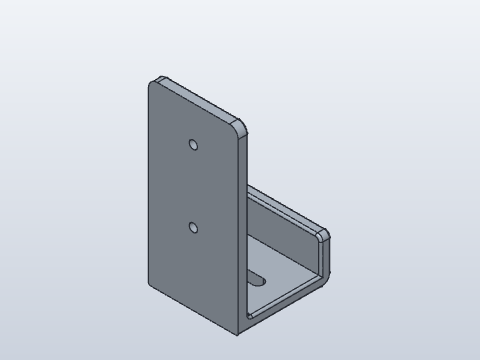
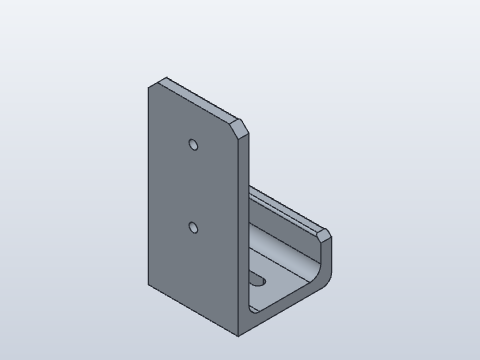
fix: wall holder prints on its side, templates take screw sizes from the tables (BC-07)
- Wall holder: print face on its side, both inner corners rounded by the wall, the
  corners on the bed chamfered; wood screw hole and countersink from WALL (4.7 / 8.8).
  Preview rendered again.
- Adjustable stop: wood screw hole and counterbore from WALL; sign and housing M3 holes
  from CLEARANCE_NORMAL.
- Sign: the words' room and the least letter height in the parameter comments, English
  and German.

Changed region(s): [[0.4688, 0.3361, 0.7188, 0.9472], [0.3125, 0.2139, 0.3438, 0.2444]]

diff --git a/apps/desktop/src/shared/templates.ts b/apps/desktop/src/shared/templates.ts
@@ -15,6 +15,8 @@
  */
 
 import { hingeSteps, lipSteps, pinDiameter, printTogether, slideSteps } from './mechanisms';
+import { CLEARANCE_NORMAL } from './screwSizes';
+import { WALL } from './wallMount';
 
 export const TEMPLATE_IDS = ['hingedBox', 'slideStop', 'housing', 'sign', 'wallHolder'] as const;
 export type TemplateId = (typeof TEMPLATE_IDS)[number];
@@ -135,8 +137,9 @@ function slideStop(): Step[] {
     parameter('base_width', '40 mm', 'Width of the base; the stop is 24 mm wide'),
     parameter('stop_length', '30 mm', 'Length of the stop along the rail'),
     parameter('stop_height', '20 mm', 'Height of the stop above the base'),
-    parameter('screw_hole', '4.5 mm', 'Holes in the base for 4 mm wood screws'),
-    parameter('screw_head', '9 mm', 'Diameter of the counterbore for their heads, so the stop passes over them'),
+    // The 4 mm wood screw of the wall mountings (audit T43: 4.5 and 9 here, 4.7 and 8.8 there): its hole, and its head with 0.5 mm per side.
+    parameter('screw_hole', `${String(WALL[4].clearance)} mm`, 'Holes in the base for 4 mm wood screws'),
+    parameter('screw_head', `${String(WALL[4].entry)} mm`, 'Diameter of the counterbore for their heads, so the stop passes over them'),
     parameter('clamp_hole', '5.6 mm', 'Hole in the stop for an M4 heat-set insert; its screw clamps the stop on the rail'),
     { command: 'solid.box', params: { length: 'length', width: 'base_width', height: `${String(thick)} mm`, corner: [0, '-base_width / 2', 0], operation: 'new', body_name: 'Base', name: 'Base' } },
     // Edges by a point on them at the starting sizes; SolidCraft follows them when the sizes change.
@@ -172,12 +175,17 @@ function slideStop(): Step[] {
 function sign(): Step[] {
   const [length, width] = [80, 25];
   return [
-    { command: 'parameters.add', params: { name: 'label', expression: 'PartBuddy', unit: 'text', comment: 'The words on the sign' } },
+    // Measured on SolidCraft 0.40.1 (2026-11-13), Arial bold at 9 mm capitals: "PartBuddy" 62.5 mm, 30 capitals 260.6 mm,
+    // "Werkzeug Schublade 3" 136.4 mm, ten W 118.7 mm. Between the screw holes and 1 mm clear of them the words have
+    // length - 17.4 mm.
+    // shortcut: SolidCraft's expressions cannot measure a text, so nothing refuses words too long; the print check finds
+    // letters past the plate or over a hole as an overhang. Fit the height to the words when SolidCraft can measure them.
+    { command: 'parameters.add', params: { name: 'label', expression: 'PartBuddy', unit: 'text', comment: 'The words on the sign; they must fit between the screw holes, the length less 18 mm: a letter takes about 0.8 times the text height, a capital about 1, a W 1.3' } },
     parameter('length', '80 mm', 'Length of the sign'),
     parameter('width', '25 mm', 'Width of the sign'),
     parameter('thickness', '3 mm', 'Thickness of the plate'),
-    parameter('text_height', '9 mm', 'Height of the capital letters'),
-    parameter('screw_hole', '3.4 mm', 'Holes for M3 screws (ISO 273, normal)'),
+    parameter('text_height', '9 mm', 'Height of the capital letters; from 4 mm their strokes are two lines of a 0.4 mm nozzle, and with descenders the words are 1.3 times as high [4..18]'),
+    parameter('screw_hole', `${String(CLEARANCE_NORMAL.M3)} mm`, 'Holes for M3 screws (ISO 273, normal)'),
     { command: 'solid.box', params: { length: 'length', width: 'width', height: 'thickness', operation: 'new', body_name: 'Sign', name: 'Plate' } },
     // Edges by a point on them at the starting sizes; SolidCraft follows them when the sizes change.
     { command: 'solid.fillet', params: { edges: [[0, 0, 1.5], [length, 0, 1.5], [0, width, 1.5], [length, width, 1.5]], radius: '4 mm', name: 'Outer corners' } },
@@ -222,7 +230,7 @@ function housing(): Step[] {
     parameter('boss', '8 mm', 'Diameter of the screw bosses in the corners'),
     parameter('insert_hole', '4 mm', 'Hole for an M3 heat-set insert (ruthex: 4 mm)'),
     parameter('insert_depth', '6.7 mm', 'Depth of that hole: insert length plus 1 mm'),
-    parameter('screw_hole', '3.4 mm', 'Hole in the lid for the M3 screws (ISO 273, normal)'),
+    parameter('screw_hole', `${String(CLEARANCE_NORMAL.M3)} mm`, 'Hole in the lid for the M3 screws (ISO 273, normal)'),
     parameter('corner', '6 mm', 'Radius of the outer corners of housing and lid'),
     parameter('ear', '12 mm', 'How far the screw ears reach out on the short sides'),
     { command: 'solid.box', params: { length: 'length', width: 'width', height: 'height', operation: 'new', body_name: 'Housing', name: 'Housing' } },
@@ -279,8 +287,8 @@ function wallHolder(): Step[] {
     parameter('wall', '6 mm', 'Thickness of plate, floor and lip'),
     parameter('hook_width', '40 mm', 'Room between plate and lip'),
     parameter('lip_height', '25 mm', 'Height of the front lip'),
-    parameter('screw_hole', '4.5 mm', 'Hole for the wall screws (4 mm wood screws)'),
-    parameter('screw_head', '9 mm', 'Diameter of the countersink for their heads'),
+    parameter('screw_hole', `${String(WALL[4].clearance)} mm`, 'Hole for the wall screws (4 mm wood screws)'),
+    parameter('screw_head', `${String(WALL[4].countersink)} mm`, 'Diameter of the countersink for their heads'),
     { command: 'solid.box', params: { length: 'plate_width', width: 'wall', height: 'plate_height', operation: 'new', body_name: 'Wall holder', name: 'Plate' } },
     {
       command: 'solid.box',
@@ -293,16 +301,21 @@ function wallHolder(): Step[] {
     { command: 'sketch.point', params: { point: ['-plate_width / 2', 'plate_height * 0.8'] } },
     { command: 'sketch.point', params: { point: ['-plate_width / 2', 'plate_height * 0.4'] } },
     { command: 'solid.hole', params: { sketch: 'Screw points', diameter: 'screw_hole', type: 'countersink', cs_diameter: 'screw_head', cs_angle: '90 deg', name: 'Countersunk holes' } },
-    // Edges by a point on them; SolidCraft follows them when the sizes change.
-    { command: 'solid.fillet', params: { edges: [[25, 6, 6]], radius: '2 mm', name: 'Inner radius' } },
-    { command: 'solid.fillet', params: { edges: [[0, 3, 100], [50, 3, 100]], radius: '5 mm', name: 'Outer corners' } },
-    { command: 'solid.fillet', params: { edges: [[0, 49, 25], [50, 49, 25]], radius: '3 mm', name: 'Lip corners' } },
+    // Edges by a point on them; SolidCraft follows them when the sizes change. Both inner corners of the hook as round as
+    // its wall is thick, as the hook rule asks (audit T29: 2 mm at a wall of 6). The holder prints lying on its side, so the
+    // corners of plate and lip that touch the bed there are chamfered at 45°: a round would start in the air.
+    { command: 'solid.fillet', params: { edges: [[25, 6, 6], [25, 46, 6]], radius: 'wall', name: 'Inner radius' } },
+    { command: 'solid.chamfer', params: { edges: [[0, 3, 100], [50, 3, 100]], distance: '5 mm', name: 'Outer corners' } },
+    { command: 'solid.chamfer', params: { edges: [[0, 49, 25], [50, 49, 25]], distance: '3 mm', name: 'Lip corners' } },
     { command: 'solid.fillet', params: { edges: [[25, 52, 0]], radius: '5 mm', name: 'Outer bend' } },
     { command: 'solid.fillet', params: { edges: [[25, 46, 25], [25, 52, 25], [25, 6, 100]], radius: '1.2 mm', name: 'Soft edges' } },
     // A slot in the floor: water runs out, a cable can pass.
     { command: 'solid.box', params: { length: 'plate_width * 0.4', width: '6 mm', height: 'wall + 2 mm', corner: ['plate_width * 0.3', 'wall + hook_width / 2 - 3 mm', '-1 mm'], operation: 'cut', name: 'Floor slot' } },
     { command: 'solid.cylinder', params: { diameter: '6 mm', height: 'wall + 2 mm', base: ['plate_width * 0.3', 'wall + hook_width / 2', '-1 mm'], operation: 'cut', name: 'Floor slot end 1' } },
     { command: 'solid.cylinder', params: { diameter: '6 mm', height: 'wall + 2 mm', base: ['plate_width * 0.7', 'wall + hook_width / 2', '-1 mm'], operation: 'cut', name: 'Floor slot end 2' } },
+    // On its side, as the hook rule asks: the load then runs along the layers round both bends (audit T29: it stood as
+    // drawn, the layers across the bend at the plate).
+    { command: 'body.print_face', params: { body: 'Wall holder', point: [0, 3, 50] } },
   ];
 }
 
@@ -319,11 +332,13 @@ const GERMAN: Record<string, string> = {
   'Holes in the base for 4 mm wood screws': 'Löcher in der Grundplatte für 4-mm-Holzschrauben',
   'Diameter of the counterbore for their heads, so the stop passes over them': 'Durchmesser der Senkung für ihre Köpfe, damit der Anschlag darüber fährt',
   'Hole in the stop for an M4 heat-set insert; its screw clamps the stop on the rail': 'Loch im Anschlag für eine M4-Einschmelzmutter; ihre Schraube klemmt den Anschlag auf der Schiene',
-  'The words on the sign': 'Der Text auf dem Schild',
+  'The words on the sign; they must fit between the screw holes, the length less 18 mm: a letter takes about 0.8 times the text height, a capital about 1, a W 1.3':
+    'Der Text auf dem Schild; er muss zwischen die Schraublöcher passen, die Länge weniger 18 mm: ein Buchstabe braucht etwa das 0,8-Fache der Schrifthöhe, ein Großbuchstabe etwa das 1-Fache, ein W das 1,3-Fache',
   'Length of the sign': 'Länge des Schilds',
   'Width of the sign': 'Breite des Schilds',
   'Thickness of the plate': 'Stärke der Platte',
-  'Height of the capital letters': 'Höhe der Großbuchstaben',
+  'Height of the capital letters; from 4 mm their strokes are two lines of a 0.4 mm nozzle, and with descenders the words are 1.3 times as high [4..18]':
+    'Höhe der Großbuchstaben; ab 4 mm sind ihre Striche zwei Bahnen einer 0,4-mm-Düse, und mit Unterlängen ist der Text 1,3-mal so hoch [4..18]',
   'Holes for M3 screws (ISO 273, normal)': 'Löcher für M3-Schrauben (ISO 273, mittel)',
   'Height of each half; closed, the box is twice as high, and the lip of the lid reaches 4 mm into the box above its floor [8..60]': 'Höhe jeder Hälfte; geschlossen ist die Box doppelt so hoch, und die Lippe des Deckels reicht 4 mm in die Box über ihrem Boden [8..60]',
   'Wall and floor thickness; the rille of the closure goes 0.45 mm into the wall of the box, and the rooms of the knuckles open through a wall up to 3 mm [1.6..3]': 'Stärke von Wand und Boden; die Rille des Verschlusses geht 0,45 mm in die Wand der Box, und die Räume der Scharnieraugen gehen durch eine Wand bis 3 mm [1,6..3]',

diff --git a/apps/desktop/test/templates.test.ts b/apps/desktop/test/templates.test.ts
@@ -2,7 +2,9 @@ import { describe, expect, it } from 'vitest';
 
 import { templateRequestSchema } from '../src/shared/contract';
 import { commentText, rangeOf } from '../src/renderer/src/shell/parameterRange';
+import { TEXT_STROKE } from '../src/shared/blocks';
 import { TEMPLATE_IDS, germanFeatureName, templatePrintFaces, templateSteps } from '../src/shared/templates';
+import { WALL } from '../src/shared/wallMount';
 
 /** The geometry fields whose text is an expression over the design's parameters. */
 const EXPRESSION_FIELDS = new Set(['length', 'width', 'height', 'diameter', 'thickness', 'depth', 'corner', 'base', 'position', 'center', 'points', 'point', 'distance', 'cs_diameter', 'radius', 'text_expression', 'offset']);
@@ -196,5 +198,30 @@ describe('templates with moving parts', () => {
     expect(templateSteps('housing', true).filter((step) => step.command === 'body.rename').map((step) => step.params.name)).toEqual([1, 2, 3, 4].map((n) => `M3-Schraube ${String(n)}`));
     expect(templateSteps('sign').find((step) => step.command === 'sketch.text')?.params.text_expression).toBe('label');
     expect(germanFeatureName('Hinge ●')).toBe('Scharnier ●');
+  });
+
+  it('lays the wall holder on its side with its inner corners as round as its wall, and takes the wood screw from the table (audit T29, T43)', () => {
+    // T29: the hook rule asks for printing on its side and inner radii of at least the thickness.
+    expect(templatePrintFaces('wallHolder')).toEqual([{ body: 'Wall holder', point: [0, 3, 50] }]);
+    expect(templatePrintFaces('wallHolder', true)).toEqual([{ body: 'Wandhalter', point: [0, 3, 50] }]);
+    const holder = templateSteps('wallHolder');
+    expect(holder.find((step) => step.params.name === 'Inner radius')?.params).toEqual({ edges: [[25, 6, 6], [25, 46, 6]], radius: 'wall', name: 'Inner radius' });
+    // Lying on its side, the corners that touch the bed are chamfered: a round there starts in the air.
+    expect(holder.filter((step) => ['Outer corners', 'Lip corners'].includes(String(step.params.name))).map((step) => step.command)).toEqual(['solid.chamfer', 'solid.chamfer']);
+    // T43: 4.5 and 9 mm stood here, the table says 4.7 and 8.8 for a 4 mm wood screw.
+    const value = (id: 'wallHolder' | 'slideStop', name: string) => templateSteps(id).find((step) => step.command === 'parameters.add' && step.params.name === name)?.params.expression;
+    expect([value('wallHolder', 'screw_hole'), value('wallHolder', 'screw_head')]).toEqual([`${String(WALL[4].clearance)} mm`, `${String(WALL[4].countersink)} mm`]);
+    expect([value('slideStop', 'screw_hole'), value('slideStop', 'screw_head')]).toEqual(['4.7 mm', '9 mm']);
+  });
+
+  it('says how much room the sign\'s words have and how small its letters may be (audit T56)', () => {
+    const comment = (name: string, german = false) => String(templateSteps('sign', german).find((step) => step.command === 'parameters.add' && step.params.name === name)?.params.comment);
+    // Between the holes (6 mm in, 3.4 mm wide) and 1 mm clear of them: the length less 17.4 mm.
+    expect(comment('label')).toContain('the length less 18 mm');
+    expect(comment('label', true)).toContain('die Länge weniger 18 mm');
+    // From 4 mm the strokes of bold capitals are two lines of a 0.4 mm nozzle (blocks.ts, TEXT_STROKE).
+    expect(Math.ceil((2 * 0.4) / TEXT_STROKE.bold)).toBe(4);
+    expect(rangeOf(comment('text_height'))).toEqual({ min: 4, max: 18 });
+    expect(rangeOf(comment('text_height', true))).toEqual({ min: 4, max: 18 });
   });
 });
